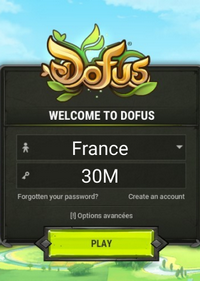
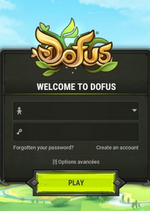
debut responsive 460px

diff --git a/style.css b/style.css
@@ -53,7 +53,7 @@ font-size: 30px;
 /* --------------------------- */
 /* -------DISPLAY NONE------- */
 /* ------------------------- */
-.flipreponsive, .imageheaderR, .imageheaderR2, #myBtnR, #myBtn1R, #myBtn2R, .pp1R, .pp2R, .pp3R, .pp4R, .pp5R, .pp6R, .pptitreR, .pptexteR, .ppimageR, #conclusionR{
+.flipreponsive, .imageheaderR, .imageheaderR2, #myBtnR, #myBtn1R, #myBtn2R, .pp1R, .pp2R, .pp3R, .pp4R, .pp5R, .pp6R, .pptitreR, .pptexteR, .ppimageR, #conclusionR, .imageheaderR3, .flipreponsiveR, .texteresponsiveR2, .flipreponsiveR, .DofusHeaderR2, .LOLHeaderR2, .OverHeaderR2, .flippaysFRR2, .flippaysKRR2, .flippaysCHR2, .flipnumeroFRR2, .flipnumeroKRR2, .flipnumeroCHR2{
         display: none;
 }
         
@@ -198,7 +198,10 @@ font-size: 30px;
     padding: 5%;
     justify-content: center;
 }
-
+.soit{
+    justify-content: center;
+    text-align: center;
+}
 /* --------------------------- */
 /* ------------FLIP---------- */
 /* ------------------------- */
@@ -311,10 +314,7 @@ text-shadow: 0px 4px 4px rgba(0, 0, 0, 0.25);
     background: rgba(29,29,29, 0.7);
     width: 100%;
 }
-.soit{
-    justify-content: center;
-    text-align: center;
-}
+
 .modal, .modal1, .modal2{
     display: none;
     position: fixed; 
@@ -570,7 +570,7 @@ body{
     font-size: 20px;
 }
 .texte{
-    font-size: 15px;
+    font-size: 12px;
 }
 .footertitresource, .footertitrereseaux, .footerinfotitre{
     font-size: 10px;
@@ -588,6 +588,12 @@ body{
     flex-direction: column;
     justify-content: center;
     align-items: center;
+}
+
+.modal-content, .modal-content1, .modal-content2 {
+    margin: 9%;
+    padding: 1%;
+    width: 80%; 
 }
 .DofusHeaderR, .LOLHeaderR, .OverHeaderR{
     height: 100%;
@@ -747,5 +753,58 @@ footer{
 }
 .ppimageR{
     padding-left: 30%;
+}
+
+/* --------------------------- */
+/* -----RESPONSIVE LVL3------ */
+/* ------------------------- */
+
+}
+
+@media(max-width:465px){
+
+body{
+    margin: 10%;
+}
+
+.jv, #pp, .couvrefeu, #myBtn, #myBtn1, #myBtn2, .citation, .readMe, .txttransi{
+    font-size: 15px;
+}
+
+header,.liste, .flippaysFR, .flipnumeroFR, .introA, .introB{   
+font-size: 20px;
+}
+
+.footertitre, .flippaysKR, .flipnumeroKR, .flippaysCH, .flipnumeroCH {
+    font-size: 10px;
+}
+
+.footertitresource, .footertitrereseaux, .footerinfotitre, .titreleg{
+    font-size: 6px;
+}
+
+.imageheaderR2{
+    display: none;
+}
+
+.imageheaderR3{
+    display: block;
+}
+
+.titre{
+    height: 400px;
+}
+#introUn, #introTrois{
+    margin: 15%;
+}
+
+.flip-box-back{
+    background: url(images/flip/LOGIN-SCREEN\ DOFUS\ 2R.png) no-repeat;
+}
+.flip-box-back1{
+    background: url(images/flip/LOGIN-SCREEN\ LOL\ 2R.png) no-repeat;
+}
+.flip-box-back2{
+    background: url(images/flip/LOGIN-SCREEN\ OVER\ 2R.png) no-repeat;
 }
 }

diff --git a/index.html b/index.html
@@ -69,6 +69,13 @@
           <img src="images/headerR2.png" alt="image du titre"> 
   </div>
           <!-- FIN RESPONSIVE LVL2 -->
+
+          <!-- RESPONSIVE LVL3 -->
+        <div class="imageheaderR3 flex">
+          <img src="images/headerR3.png" alt="image du titre"> 
+  </div>
+          <!-- FIN RESPONSIVE LVL3 -->
+          
     <div class="imageheader flex">
             <img src="images/header.png" alt="image du titre"> 
     </div>  
@@ -111,7 +118,31 @@
           </div>
           </div>
         </div>
-              <!--FIN RESPONSIVE -->
+              <!--FIN RESPONSIVE LVL1-->
+
+              <!-- RESPONSIVE LVL4-->
+        <div class="flipreponsiveR flex">
+          <div class="texteresponsiveR flex">
+              <div class="DofusHeaderR2">
+                <p class="flippaysFRR2">FRANCE</p>
+                <p class="flipnumeroFRR2">30 M</p>
+              </div>
+            </div>
+          <div class="texteresponsiveR flex">
+            <div class="LOLHeaderR2">
+              <p class="flippaysKRR2">COREE</p>
+              <p class="flipnumeroKRR2">28.9 M</p>
+            </div>
+              
+          </div>
+          <div class=" texteresponsiveR flex">
+            <div class="OverHeaderR2">
+              <p class="flippaysCHR2">CHINE</p>
+              <p class="flipnumeroCHR2">720M</p>
+          </div>
+          </div>
+        </div>
+              <!--FIN RESPONSIVE LVL1-->
 
         <section id="introDeux" class="flex">
              
